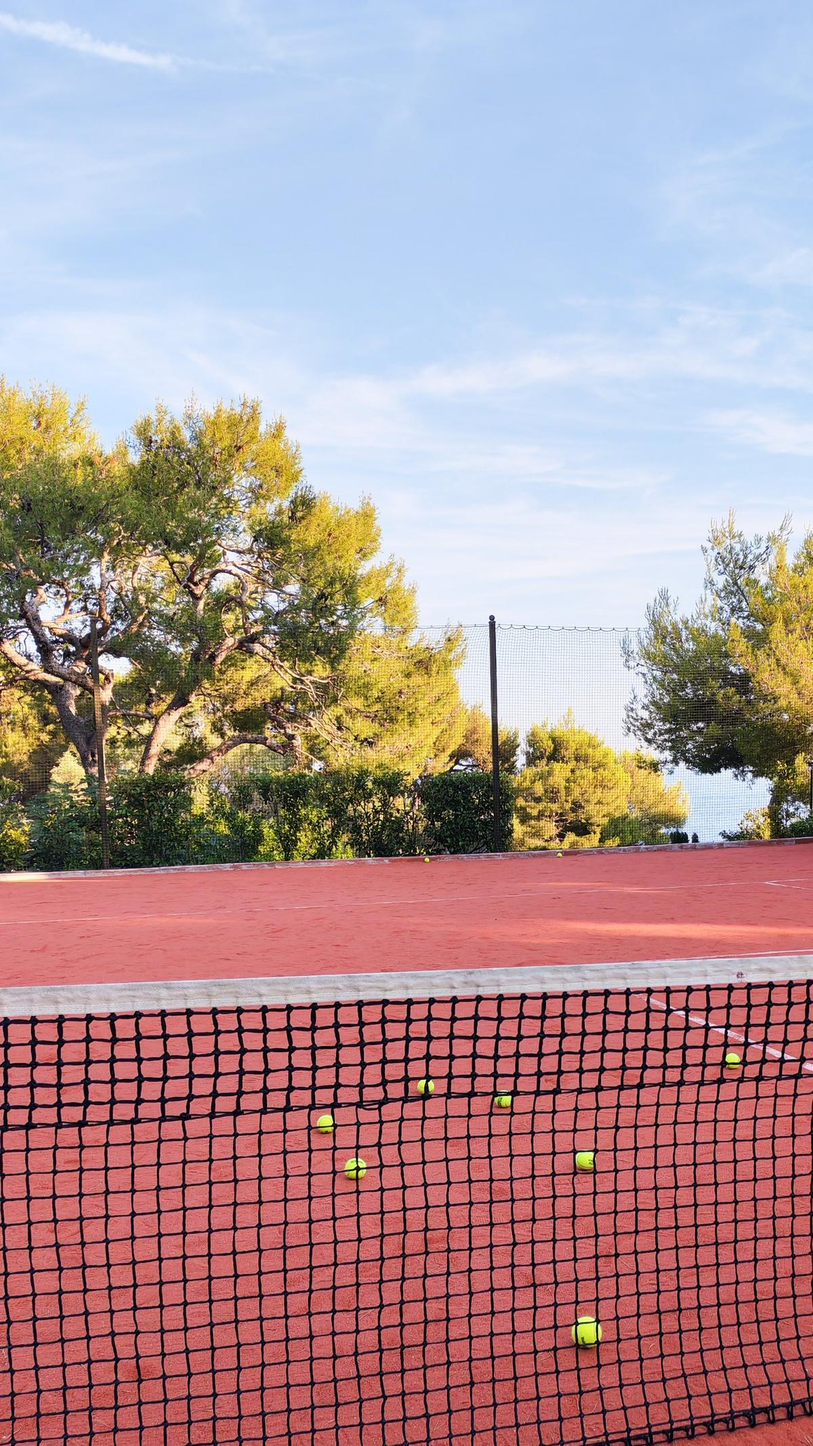
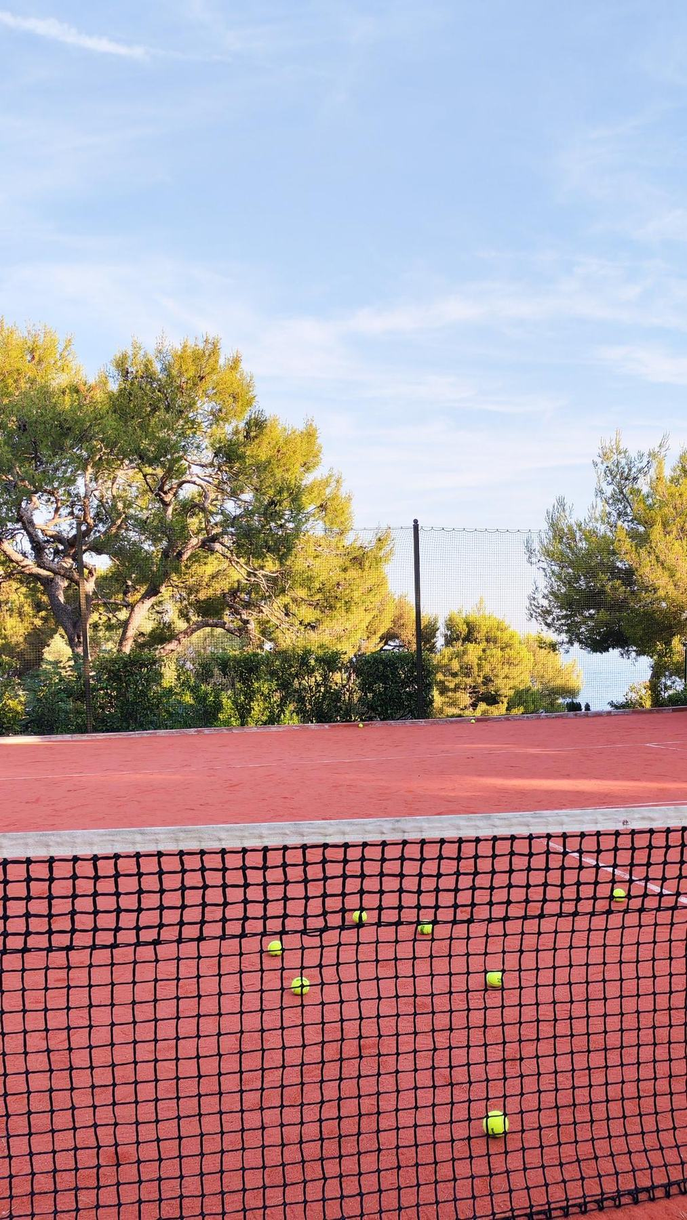
Add files via upload

diff --git a/valbonne.html b/valbonne.html
@@ -11,7 +11,7 @@
 <meta charset="UTF-8">
 <meta name="viewport" content="width=device-width, initial-scale=1.0">
 <title>Cours de Tennis Privé à Valbonne & Sophia Antipolis | Massimo Bettini</title>
-<meta name="description" content="Coach de tennis privé à Valbonne et Sophia Antipolis : leçons à domicile sur votre court, pour adultes, enfants et familles. Français, English, Italiano.">
+<meta name="description" content="Coach de tennis privé à Valbonne et Sophia Antipolis : sur votre court ou sur un court que je réserve dans le secteur. Adultes, enfants, familles.">
 <meta name="robots" content="index, follow">
 <meta name="geo.region" content="FR-06">
 <meta name="google-site-verification" content="4nW39ZfNtxdszXKc7ls4sbl_gJb02M8zOj4yZzvPeng">
@@ -21,7 +21,7 @@
 <meta property="og:type" content="website">
 <meta property="og:url" content="https://tenniscoachriviera.com/valbonne.html">
 <meta property="og:title" content="Cours de Tennis Privé à Valbonne & Sophia Antipolis | Massimo Bettini">
-<meta property="og:description" content="Coach de tennis privé à Valbonne et Sophia Antipolis : leçons à domicile sur votre court, pour adultes, enfants et familles. Français, English, Italiano.">
+<meta property="og:description" content="Coach de tennis privé à Valbonne et Sophia Antipolis : sur votre court ou sur un court que je réserve dans le secteur. Adultes, enfants, familles.">
 <meta property="og:image" content="https://tenniscoachriviera.com/tennis-court-prive-domicile.jpg">
 <meta property="og:locale" content="fr_FR">
 <meta property="og:locale:alternate" content="en_GB">
@@ -211,7 +211,7 @@ footer{border-top:1px solid rgba(184,151,58,0.1);padding:32px 60px;display:flex;
       "name": "Je n'ai pas de court privé, puis-je quand même prendre des leçons ?",
       "acceptedAnswer": {
         "@type": "Answer",
-        "text": "Oui. Écrivez-moi en indiquant où vous êtes, vos disponibilités et le nombre de joueurs : je vous proposerai une solution adaptée."
+        "text": "Oui. Je réserve un court dans le secteur et j'apporte raquettes et balles. Écrivez-moi en indiquant où vous êtes, vos disponibilités et le nombre de joueurs."
       }
     },
     {
@@ -303,6 +303,12 @@ footer{padding:40px 60px;border-top:1px solid rgba(184,151,58,0.1);display:flex;
 .footer-instagram:hover{background:rgba(184,151,58,0.08);}
 .footer-instagram svg{flex-shrink:0;}
 @media(max-width:900px){footer{padding:32px;flex-direction:column;text-align:center;}}
+
+/* Leggibilità: contrasto footer ed etichette piccole */
+.footer-brand{color:rgba(184,151,58,0.9);}
+.footer-text{color:#8FA2B8;}
+.footer-link{opacity:1;}
+.section-eyebrow,.hero-eyebrow,.eyebrow,.blog-eyebrow,.cta-pre,.cta-zone,.reviews-label,.review-source,.zones-label,.formules-label,.club-box-label,.blog-card-lang,.blog-card-cta,.blog-toc-label,.lang-tag,.about-photo-badge,.tarif-note,.footer-text,.footer-instagram,.reviews-cta a{font-size:11px;}
 </style>
 <header class="site-nav" id="site-nav">
   <a href="https://tenniscoachriviera.com/" class="site-nav-brand">
@@ -370,7 +376,7 @@ footer{padding:40px 60px;border-top:1px solid rgba(184,151,58,0.1);display:flex;
 <div class="page-hero">
   <p class="eyebrow" data-fr="Valbonne · Sophia Antipolis" data-en="Valbonne · Sophia Antipolis" data-it="Valbonne · Sophia Antipolis">Valbonne · Sophia Antipolis</p>
   <h1 data-fr="Coach de tennis privé à <em>Valbonne</em>" data-en="Private tennis coach in <em>Valbonne</em>" data-it="Coach di tennis privato a <em>Valbonne</em>">Coach de tennis privé à <em>Valbonne</em></h1>
-  <p class="sub" data-fr="Leçons particulières sur votre court, pour les résidents et les personnes de passage" data-en="Private lessons on your court, for residents and visitors" data-it="Lezioni private sul tuo campo, per residenti e per chi è di passaggio">Leçons particulières sur votre court, pour les résidents et les personnes de passage</p>
+  <p class="sub" data-fr="Sur votre court ou sur un court que je réserve, pour les résidents et les personnes de passage" data-en="On your court or on a court I book for you, for residents and visitors" data-it="Sul tuo campo o su un campo che prenoto io, per residenti e per chi è di passaggio">Sur votre court ou sur un court que je réserve, pour les résidents et les personnes de passage</p>
 </div>
 
 <div class="content">
@@ -396,9 +402,9 @@ footer{padding:40px 60px;border-top:1px solid rgba(184,151,58,0.1);display:flex;
     <p class="feature-text" data-fr="Débutants, joueurs qui reprennent ou joueurs confirmés : chacun à son niveau." data-en="Beginners, returning players or experienced players: everyone at their own level." data-it="Principianti, chi riprende o giocatori esperti: ognuno al proprio livello.">Débutants, joueurs qui reprennent ou joueurs confirmés : chacun à son niveau.</p>
   </div>
   <div class="feature">
-    <span class="feature-icon"><i class="fa-solid fa-earth-europe"></i></span>
-    <div class="feature-title" data-fr="Français · English · Italiano" data-en="Français · English · Italiano" data-it="Français · English · Italiano">Français · English · Italiano</div>
-    <p class="feature-text" data-fr="Pour les familles internationales installées à Valbonne et Sophia Antipolis." data-en="For international families living in Valbonne and Sophia Antipolis." data-it="Per le famiglie internazionali che vivono a Valbonne e Sophia Antipolis.">Pour les familles internationales installées à Valbonne et Sophia Antipolis.</p>
+    <span class="feature-icon"><i class="fa-solid fa-location-dot"></i></span>
+    <div class="feature-title" data-fr="Pas de court ?" data-en="No court?" data-it="Niente campo?">Pas de court ?</div>
+    <p class="feature-text" data-fr="C'est le cas de beaucoup de mes élèves. Je m'occupe de réserver un court dans le secteur et j'apporte raquettes et balles. Vous venez simplement jouer." data-en="Many of my students don't have one either. I'll book a court in the area and bring racquets and balls. All you need to do is turn up and play." data-it="Succede a molti dei miei allievi. Prenoto io un campo in zona e porto racchette e palline. Tu devi solo venire a giocare.">C'est le cas de beaucoup de mes élèves. Je m'occupe de réserver un court dans le secteur et j'apporte raquettes et balles. Vous venez simplement jouer.</p>
   </div>
 </div>
 
@@ -467,7 +473,7 @@ footer{padding:40px 60px;border-top:1px solid rgba(184,151,58,0.1);display:flex;
   </div>
   <div class="faq-item">
     <div class="faq-q" data-fr="Je n'ai pas de court privé, puis-je quand même prendre des leçons ?" data-en="I don't have a private court, can I still take lessons?" data-it="Non ho un campo privato, posso comunque prendere lezioni?">Je n'ai pas de court privé, puis-je quand même prendre des leçons ?</div>
-    <div class="faq-a" data-fr="Oui. Écrivez-moi en indiquant où vous êtes, vos disponibilités et le nombre de joueurs : je vous proposerai une solution adaptée." data-en="Yes. Message me with your location, your availability and the number of players, and I will suggest a suitable option." data-it="Sì. Scrivimi indicando dove ti trovi, le tue disponibilità e il numero di giocatori: ti proporrò una soluzione adatta.">Oui. Écrivez-moi en indiquant où vous êtes, vos disponibilités et le nombre de joueurs : je vous proposerai une solution adaptée.</div>
+    <div class="faq-a" data-fr="Oui. Je réserve un court dans le secteur et j'apporte raquettes et balles. Écrivez-moi en indiquant où vous êtes, vos disponibilités et le nombre de joueurs." data-en="Yes. I book a court in the area and bring racquets and balls. Tell me where you are, your availability and the number of players." data-it="Sì. Prenoto io un campo in zona e porto racchette e palline. Scrivimi dove ti trovi, le tue disponibilità e il numero di giocatori.">Oui. Je réserve un court dans le secteur et j'apporte raquettes et balles. Écrivez-moi en indiquant où vous êtes, vos disponibilités et le nombre de joueurs.</div>
   </div>
   <div class="faq-item">
     <div class="faq-q" data-fr="Proposez-vous des cours en anglais pour les expats de Sophia Antipolis ?" data-en="Do you offer tennis lessons in English for Sophia Antipolis expats?" data-it="Fai lezioni in inglese per gli expat di Sophia Antipolis?">Proposez-vous des cours en anglais pour les expats de Sophia Antipolis ?</div>
@@ -492,8 +498,8 @@ footer{padding:40px 60px;border-top:1px solid rgba(184,151,58,0.1);display:flex;
     <h2 class="cta-title" data-fr="Réserver à <em>Valbonne</em>" data-en="Book in <em>Valbonne</em>" data-it="Prenota a <em>Valbonne</em>">Réserver à <em>Valbonne</em></h2>
     <p class="cta-sub" data-fr="Écrivez-moi avec votre niveau et vos disponibilités. Je vous réponds sous 24 heures." data-en="Message me with your level and availability. I reply within 24 hours." data-it="Scrivimi indicando il tuo livello e le tue disponibilità. Ti rispondo entro 24 ore.">Écrivez-moi avec votre niveau et vos disponibilités. Je vous réponds sous 24 heures.</p>
     <div class="cta-contacts">
-      <a href="https://wa.me/33636047722" class="btn-gold" onclick="gtag('event', 'cta_booking_click', {cta_position: 'footer'});" data-fr="📱 WhatsApp" data-en="📱 WhatsApp" data-it="📱 WhatsApp">📱 WhatsApp</a>
-      <a href="mailto:massimo@tenniscoachriviera.com" class="btn-outline" onclick="gtag('event', 'contact_email');" data-fr="✉ Email" data-en="✉ Email" data-it="✉ Email">✉ Email</a>
+      <a href="https://wa.me/33636047722" class="btn-gold" onclick="gtag('event', 'cta_booking_click', {cta_position: 'footer'});"><i class="fa-brands fa-whatsapp" style="font-size:14px;"></i> WhatsApp</a>
+      <a href="mailto:massimo@tenniscoachriviera.com" class="btn-outline" onclick="gtag('event', 'contact_email');"><i class="fa-solid fa-envelope" style="font-size:13px;"></i> Email</a>
     </div>
   </div>
 
@@ -553,7 +559,7 @@ footer{padding:40px 60px;border-top:1px solid rgba(184,151,58,0.1);display:flex;
 <script>
 /* Link del blog nella lingua scelta */
 (function(){
-  var M={"/blog/blog-cours-tennis-monaco.html": {"en": "/blog/en/private-tennis-lessons-monaco.html", "it": "/blog/it/lezioni-tennis-monaco.html"}, "/blog/blog-cours-tennis-nice.html": {"en": "/blog/en/private-tennis-lessons-nice.html", "it": "/blog/blog-lezioni-tennis-nizza.html"}, "/blog/blog-tennis-vacances-cote-azur.html": {"en": "/blog/en/tennis-holidays-french-riviera.html", "it": "/blog/it/tennis-vacanze-costa-azzurra.html"}, "/blog/blog-cours-tennis-antibes.html": {"en": "/blog/en/private-tennis-lessons-antibes.html", "it": "/blog/it/lezioni-tennis-antibes.html"}};
+  var M={"/blog/blog-cours-tennis-nice.html": {"en": "/blog/en/private-tennis-lessons-nice.html", "it": "/blog/blog-lezioni-tennis-nizza.html"}, "/blog/blog-cours-tennis-monaco.html": {"en": "/blog/en/private-tennis-lessons-monaco.html", "it": "/blog/it/lezioni-tennis-monaco.html"}, "/blog/blog-tennis-vacances-cote-azur.html": {"en": "/blog/en/tennis-holidays-french-riviera.html", "it": "/blog/it/tennis-vacanze-costa-azzurra.html"}, "/blog/blog-cours-tennis-antibes.html": {"en": "/blog/en/private-tennis-lessons-antibes.html", "it": "/blog/it/lezioni-tennis-antibes.html"}};
   function fix(){
     var l; try{l=localStorage.getItem('tcr_lang');}catch(e){}
     l=l||'fr';

diff --git a/nice.html b/nice.html
@@ -297,6 +297,12 @@ footer{padding:40px 60px;border-top:1px solid rgba(184,151,58,0.1);display:flex;
 .footer-instagram:hover{background:rgba(184,151,58,0.08);}
 .footer-instagram svg{flex-shrink:0;}
 @media(max-width:900px){footer{padding:32px;flex-direction:column;text-align:center;}}
+
+/* Leggibilità: contrasto footer ed etichette piccole */
+.footer-brand{color:rgba(184,151,58,0.9);}
+.footer-text{color:#8FA2B8;}
+.footer-link{opacity:1;}
+.section-eyebrow,.hero-eyebrow,.eyebrow,.blog-eyebrow,.cta-pre,.cta-zone,.reviews-label,.review-source,.zones-label,.formules-label,.club-box-label,.blog-card-lang,.blog-card-cta,.blog-toc-label,.lang-tag,.about-photo-badge,.tarif-note,.footer-text,.footer-instagram,.reviews-cta a{font-size:11px;}
 </style>
 <header class="site-nav" id="site-nav">
   <a href="https://tenniscoachriviera.com/" class="site-nav-brand">
@@ -486,8 +492,8 @@ footer{padding:40px 60px;border-top:1px solid rgba(184,151,58,0.1);display:flex;
     <h2 class="cta-title" data-fr="Réserver à <em>Nice</em>" data-en="Book in <em>Nice</em>" data-it="Prenota a <em>Nizza</em>">Réserver à <em>Nice</em></h2>
     <p class="cta-sub" data-fr="Écrivez-moi avec le lieu, vos disponibilités et le nombre de joueurs. Je vous réponds sous 24 heures." data-en="Message me with the place, your availability and the number of players. I reply within 24 hours." data-it="Scrivimi indicando luogo, disponibilità e numero di giocatori. Ti rispondo entro 24 ore.">Écrivez-moi avec le lieu, vos disponibilités et le nombre de joueurs. Je vous réponds sous 24 heures.</p>
     <div class="cta-contacts">
-      <a href="https://wa.me/33636047722" class="btn-gold" onclick="gtag('event', 'cta_booking_click');" data-fr="📱 WhatsApp" data-en="📱 WhatsApp" data-it="📱 WhatsApp">📱 WhatsApp</a>
-      <a href="mailto:massimo@tenniscoachriviera.com" class="btn-outline" onclick="gtag('event', 'contact_email');" data-fr="✉ Email" data-en="✉ Email" data-it="✉ Email">✉ Email</a>
+      <a href="https://wa.me/33636047722" class="btn-gold" onclick="gtag('event', 'cta_booking_click');"><i class="fa-brands fa-whatsapp" style="font-size:14px;"></i> WhatsApp</a>
+      <a href="mailto:massimo@tenniscoachriviera.com" class="btn-outline" onclick="gtag('event', 'contact_email');"><i class="fa-solid fa-envelope" style="font-size:13px;"></i> Email</a>
     </div>
   </div>
 
@@ -546,7 +552,7 @@ footer{padding:40px 60px;border-top:1px solid rgba(184,151,58,0.1);display:flex;
 <script>
 /* Link del blog nella lingua scelta */
 (function(){
-  var M={"/blog/blog-cours-tennis-monaco.html": {"en": "/blog/en/private-tennis-lessons-monaco.html", "it": "/blog/it/lezioni-tennis-monaco.html"}, "/blog/blog-cours-tennis-nice.html": {"en": "/blog/en/private-tennis-lessons-nice.html", "it": "/blog/blog-lezioni-tennis-nizza.html"}, "/blog/blog-tennis-vacances-cote-azur.html": {"en": "/blog/en/tennis-holidays-french-riviera.html", "it": "/blog/it/tennis-vacanze-costa-azzurra.html"}, "/blog/blog-cours-tennis-antibes.html": {"en": "/blog/en/private-tennis-lessons-antibes.html", "it": "/blog/it/lezioni-tennis-antibes.html"}};
+  var M={"/blog/blog-cours-tennis-nice.html": {"en": "/blog/en/private-tennis-lessons-nice.html", "it": "/blog/blog-lezioni-tennis-nizza.html"}, "/blog/blog-cours-tennis-monaco.html": {"en": "/blog/en/private-tennis-lessons-monaco.html", "it": "/blog/it/lezioni-tennis-monaco.html"}, "/blog/blog-tennis-vacances-cote-azur.html": {"en": "/blog/en/tennis-holidays-french-riviera.html", "it": "/blog/it/tennis-vacanze-costa-azzurra.html"}, "/blog/blog-cours-tennis-antibes.html": {"en": "/blog/en/private-tennis-lessons-antibes.html", "it": "/blog/it/lezioni-tennis-antibes.html"}};
   function fix(){
     var l; try{l=localStorage.getItem('tcr_lang');}catch(e){}
     l=l||'fr';
